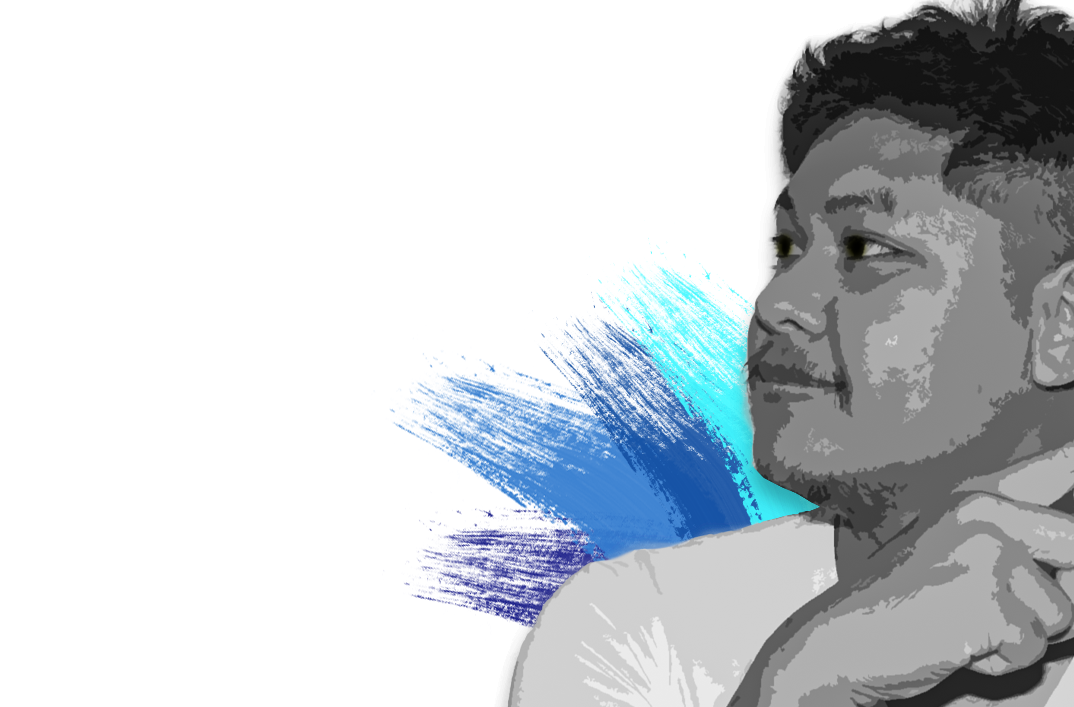
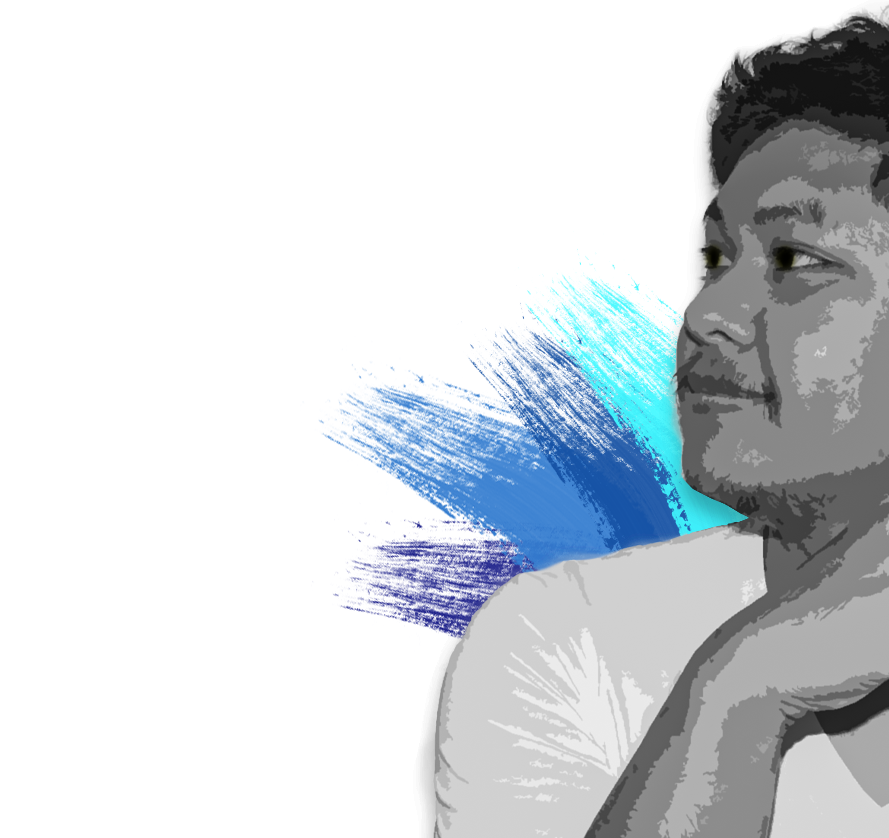
update main 1.1c

diff --git a/index.html b/index.html
@@ -14,10 +14,7 @@
     <title>Ron Reciproco</title>
 </head>
 <body>
-<header>
-  <div class="background-image"><img src="image/background.png" alt=""></div>
-  <div class="background-image-1"><img src="image/background-1.png" alt=""></div>
-  <div class="background-image-2"><img src="image/background-2.png" alt=""></div>
+<header>    
         <div class="header-container">
                 <div class="logo-container"><img class="logo-size" src="image/logo.png" alt="">
                 <span class="logoname">Ron</span>
@@ -58,18 +55,19 @@
         <div class="left-box-container">
             <span class="headline"><h1>Designer</h1></span>
             <span class="sub-headline"> 
-                Graphic designer specializing UI 
-                <br>and design systems.
+                Graphic designer specializing UI and <br>design systems.
             </span>    
         </div>
         <div class="right-box-container">
             <span class="headline"><h1>Coder</h1></span>
             <span class="sub-headline">   
-            Front-end developer who writes clean,  
-            <br>elegant and efficient code. 
+            Front-end developer who writes clean, <br>elegant and efficient code. 
         </span>
         </div>
     </div>
+    <div class="background-image"><img class="background" src="image/background.png" alt=""></div>
+    <div class="background-image-1"><img class="background-image-1" src="image/background-1.png" alt=""></div>
+    <div class="background-image-2"><img class="background-image-2" src="image/background-2.png" alt=""></div>
 </main>
 <section id="about" class="section-1">
     <div class="about-sec-pad">
@@ -78,9 +76,9 @@
     <h1>ABOUT ME</h1></span>
     <span class="about-me-info">Hello there! I'm a dynamic graphic designer and web developer with a passion for crafting engaging digital experiences. With a keen eye for aesthetics and a love for clean and functional design, I specialize in creating visual narratives that captivate and inspire. 
       
-      <br><br>My creative journey has equipped me with a diverse skill set, from designing sleek user interfaces to coding robust and responsive websites.
+      My creative journey has equipped me with a diverse skill set, from designing sleek user interfaces to coding robust and responsive websites.
 
-      <br><br>What sets me apart is my ability to seamlessly blend creativity with technical expertise. <br><br>My designs not only look great but also offer intuitive user experiences. I thrive on turning complex ideas into visually appealing and accessible designs that leave a lasting impact.
+      <br><br>What sets me apart is my ability to seamlessly blend creativity with technical expertise. My designs not only look great but also offer intuitive user experiences. I thrive on turning complex ideas into visually appealing and accessible designs that leave a lasting impact.
       
       <br><br> Let's collaborate to bring your vision to life. Whether it's a cutting-edge website, a captivating app interface, or a complete brand overhaul, I'm here to turn ideas into immersive digital realities. </span>
     <div class="about-container-box">

diff --git a/css/main.css b/css/main.css
@@ -58,8 +58,9 @@ i {
     height: auto;
     object-fit: fill;
     object-position: center;
+    top: 5rem;
+    left: -23rem;
     padding-top: 5rem;
-    zoom: 105.8%;
     box-shadow: 0 4px 2px -2px rgb(243, 243, 243);
 }
 
@@ -209,14 +210,74 @@ h2 {
 .skills-icon-container {
     margin-top: 3rem;
 }
-
-@media (max-width: 768px) {
-   .background-image-1 {
+.background-image-2 {
     position: absolute;
+    width: 100%;
+    height: 380px;
+    top: 24rem;
+    object-fit: contain;
     z-index: -1;
+}
+.background-image-1 {
+    position: absolute;
+    width: 100%;
+    height: 370px;
+    object-fit: fill;
+    top: 3.8rem;
+    z-index: -1;
+}
+@media (max-width: 800px) {
+    .background-image-1 {
+        position: absolute;
+        width: 100%;
+        height: 370px;
+        object-fit: contain;
+        top: 3.8rem;
+        z-index: -1;
+        left: -15rem;
+    }
+}
+@media (max-width: 1920px) {
+    .background-image {
+        position: absolute;
+        width: 100%;
+        height: 370px;
+        object-fit: fill;
+        top: 3.8rem;
+        z-index: -1;
+        left: 0;
+    }
+}
+@media (max-width: 1440px) {
+    .background-image {
+        position: absolute;
+        width: 100%;
+        height: 370px;
+        object-fit: fill;
+        top: 3.8rem;
+        left: -20rem;
+        z-index: -1;
+    }
+    .about-sec-pad {
+        width: 80%;
+    }
+}
+@media (max-width: 768px) {
+    .html,.css,.javascript,.shopify,.wordpress,.github,.sqlbasics,.linux,.figma,.graphicdesign {
+    font-size: 1.5rem;
+    line-height: 8rem;
+    }
+    .sub-headline {
+        font-size: 1.5rem;
     }
     .section-1 {
         height: auto;
+    }
+    .project-container-right-dsc {
+        font-size: 1.5rem;
+    }
+    .project-info {
+        font-size: 1.5rem;
     }
     .about-sec-pad {
         text-align: center;
@@ -230,17 +291,23 @@ h2 {
     }
     p {
         margin: 0;
+        font-size: 1.5rem;
+    }
+    strong {
+        font-size: 1.5rem;
     }
     .skills-icon-container {
         width: 100%;
         align-items: center;
         margin-left: 3rem;
+        font-size: 2rem;
     }
     .project-info {
         width: 95%;
     }
     .about-me-info {
         width: 100%;
+        font-size: 1.5rem;
     }
     .about-container-right {
         width: 100%;
@@ -276,23 +343,6 @@ h2 {
     .project-container {
         grid-template-columns: 1fr;
         margin: 1rem 0 1rem 0;
-    }
-
-    .background-image-2 {
-        position: absolute;
-        top: 77rem;
-        left: -1rem;
-        zoom: 54.1%;
-        z-index: -1;
-        box-shadow: 2px 2px 10px rgba(0, 0, 0, 0.3);
-    }
-    .background-image-1 {
-        position: absolute;
-        top: 8rem;
-        right: 0rem;
-        zoom: 54.1%;
-        z-index: -1;
-        box-shadow: 2px 2px 10px rgba(0, 0, 0, 0.3);
     }
     .about-container-box {
         width: 100%;

diff --git a/backup/main.css b/backup/main.css
@@ -209,12 +209,28 @@ h2 {
 .skills-icon-container {
     margin-top: 3rem;
 }
-
-@media (max-width: 768px) {
-   .background-image-1 {
-    position: absolute;
-    z-index: -1;
+.background-mobile {
+    width: 428px;
+}
+@media (max-width: 428px) {
+    .background-image-2 {
+        position: absolute;
+        top: 37rem;
+        left: -1rem;
+        zoom: 24.1%;
+        z-index: -1;
+        box-shadow: 2px 2px 10px rgba(0, 0, 0, 0.3);
     }
+    .background-image-1 {
+        position: absolute;
+        top: 8rem;
+        right: 0rem;
+        zoom: 50.1%;
+        z-index: -1;
+        box-shadow: 2px 2px 10px rgba(0, 0, 0, 0.3);
+    }
+}
+@media (max-width: 768px) {
     .section-1 {
         height: auto;
     }
@@ -279,22 +295,6 @@ h2 {
     }
     .background-image {
         zoom: 50%;
-    }
-    .background-image-2 {
-        position: absolute;
-        top: 77rem;
-        left: -1rem;
-        zoom: 54.1%;
-        z-index: -1;
-        box-shadow: 2px 2px 10px rgba(0, 0, 0, 0.3);
-    }
-    .background-image-1 {
-        position: absolute;
-        top: 8rem;
-        right: 0rem;
-        zoom: 54.1%;
-        z-index: -1;
-        box-shadow: 2px 2px 10px rgba(0, 0, 0, 0.3);
     }
     .about-container-box {
         width: 100%;

diff --git a/css/header.css b/css/header.css
@@ -184,13 +184,13 @@ li {
     }
     .right-box-container {
         margin-right: 1rem;
-        margin-top: 40rem;
+        margin-top: 15rem;
     }
     h1 {
         font-size: 5rem;
     }
     .sub-headline {
-        font-size: 2rem;
+        font-size: 1.5rem;
     }
     .header-container {
         display: none !important;
@@ -330,9 +330,6 @@ li {
     }
     h1 {
         font-size: 3.3rem;
-    }
-    .sub-headline {
-        font-size: 2rem;
     }
     .header-container {
         display: none !important;
